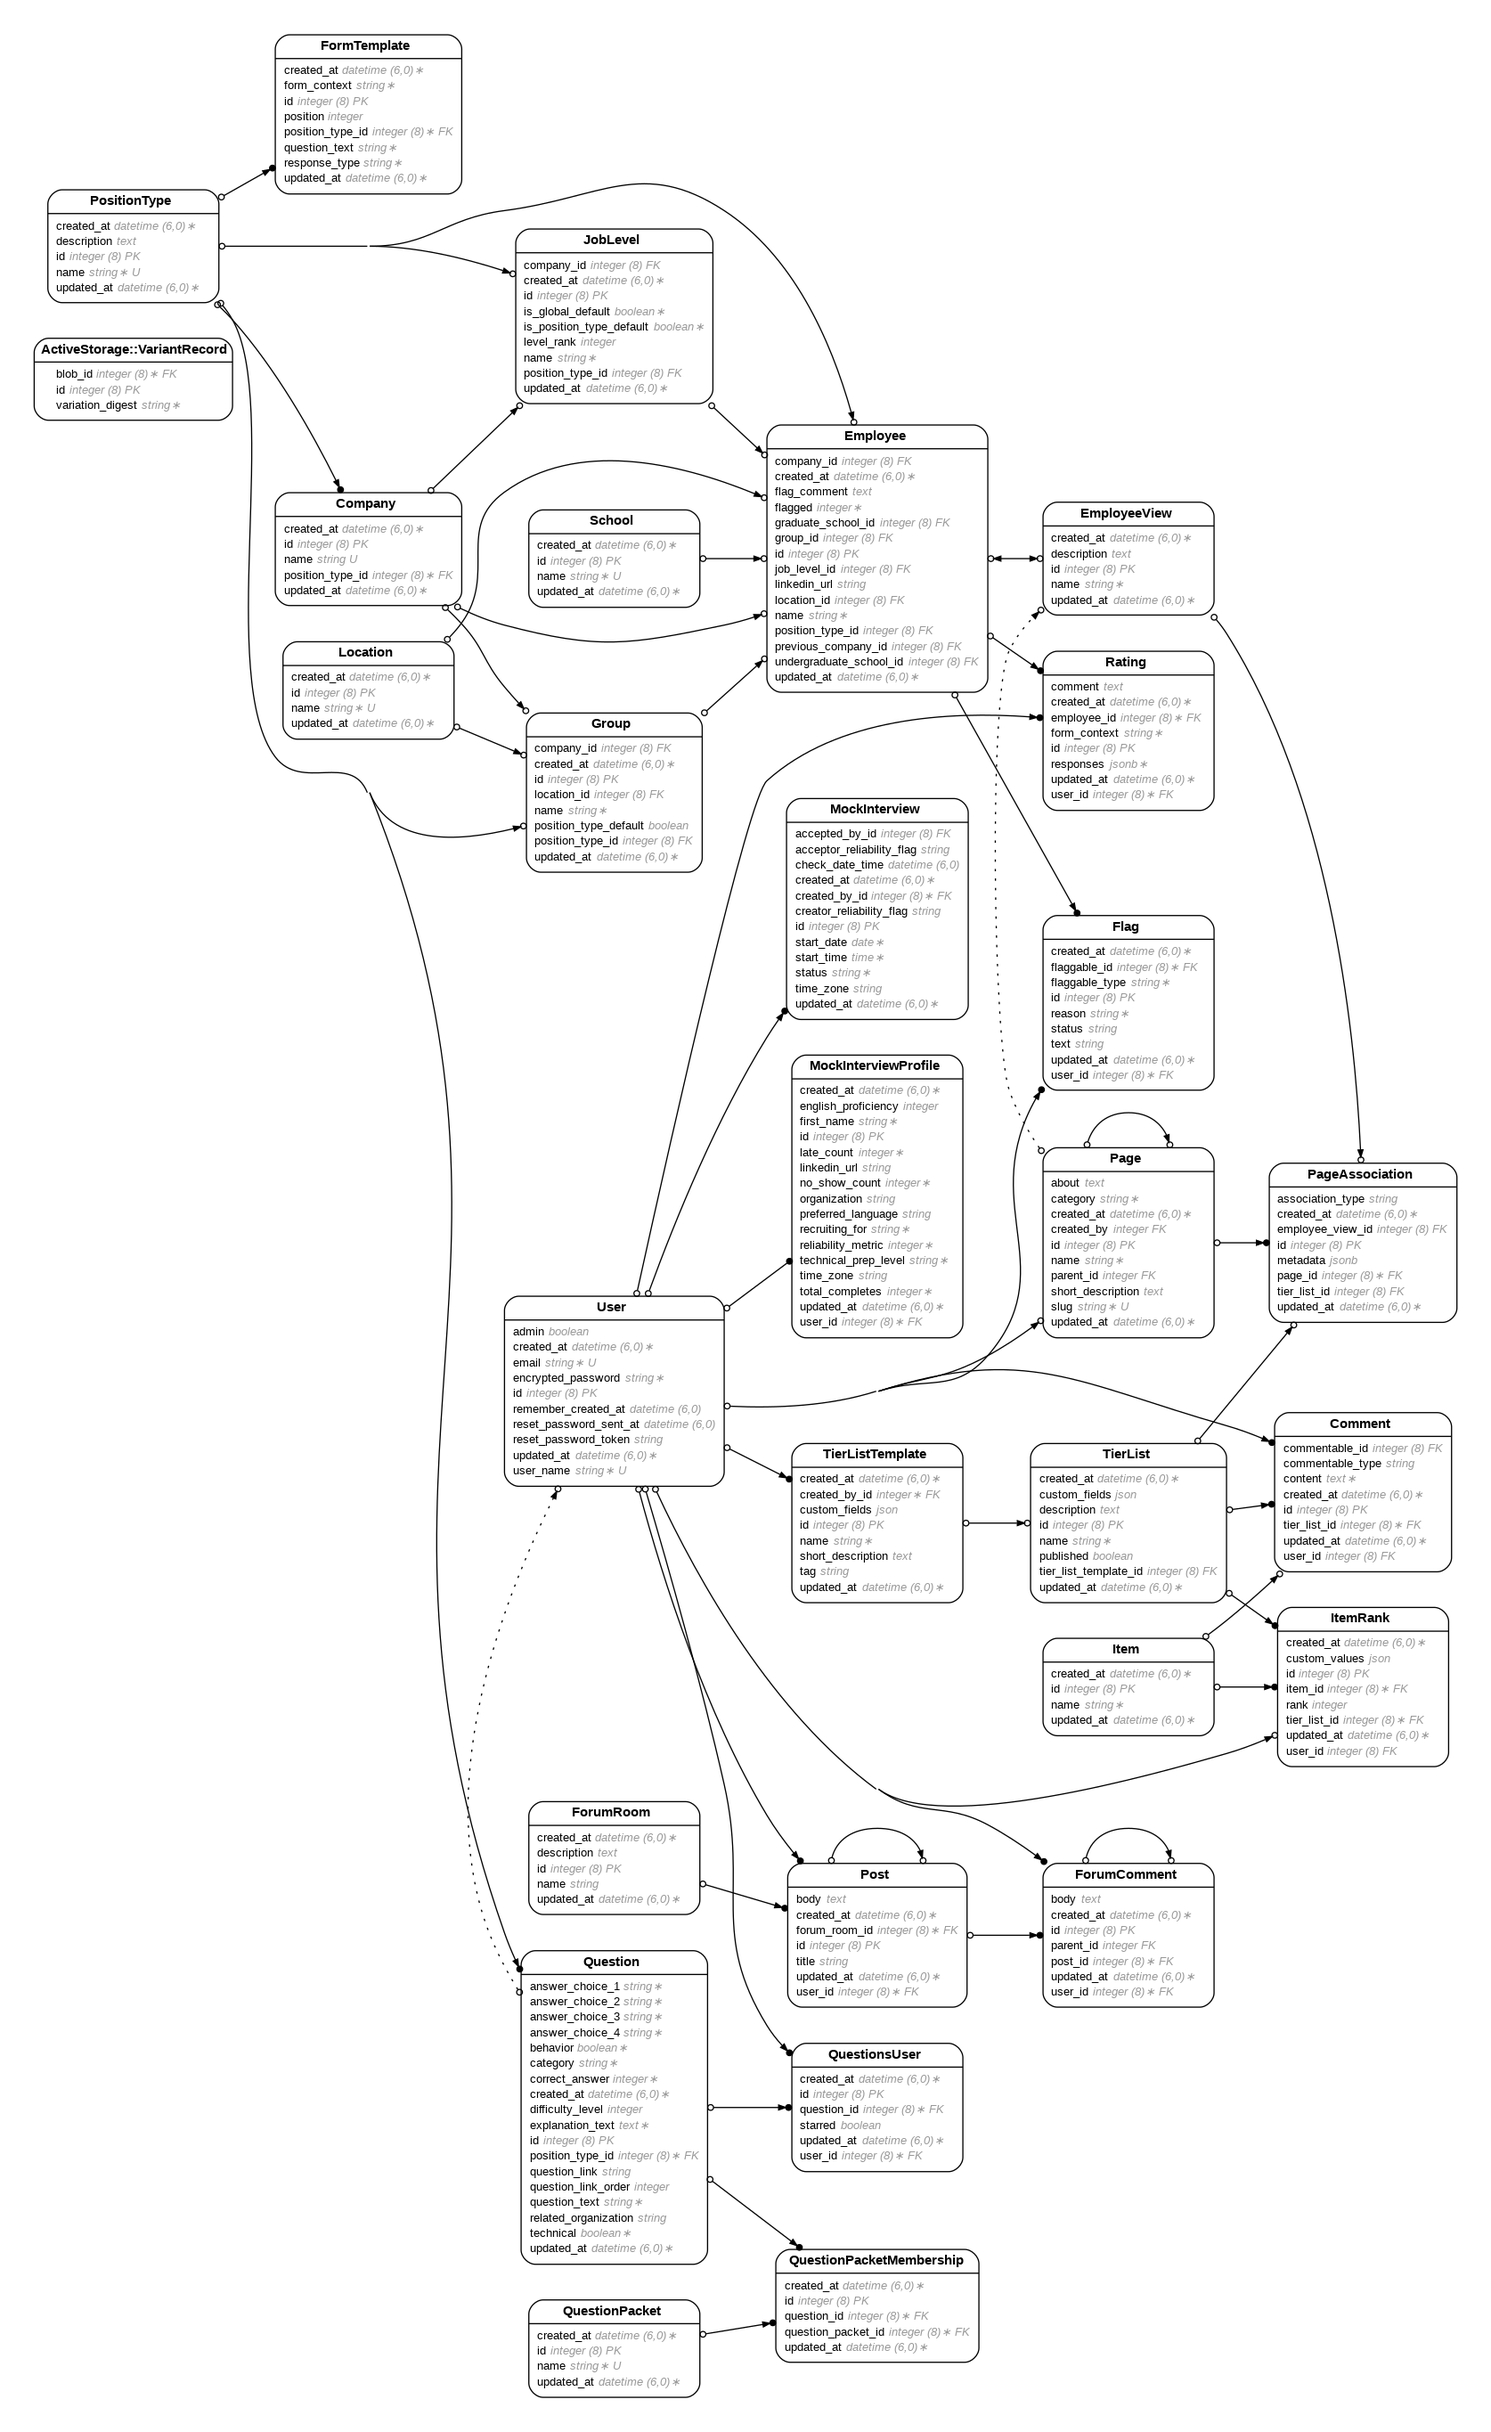
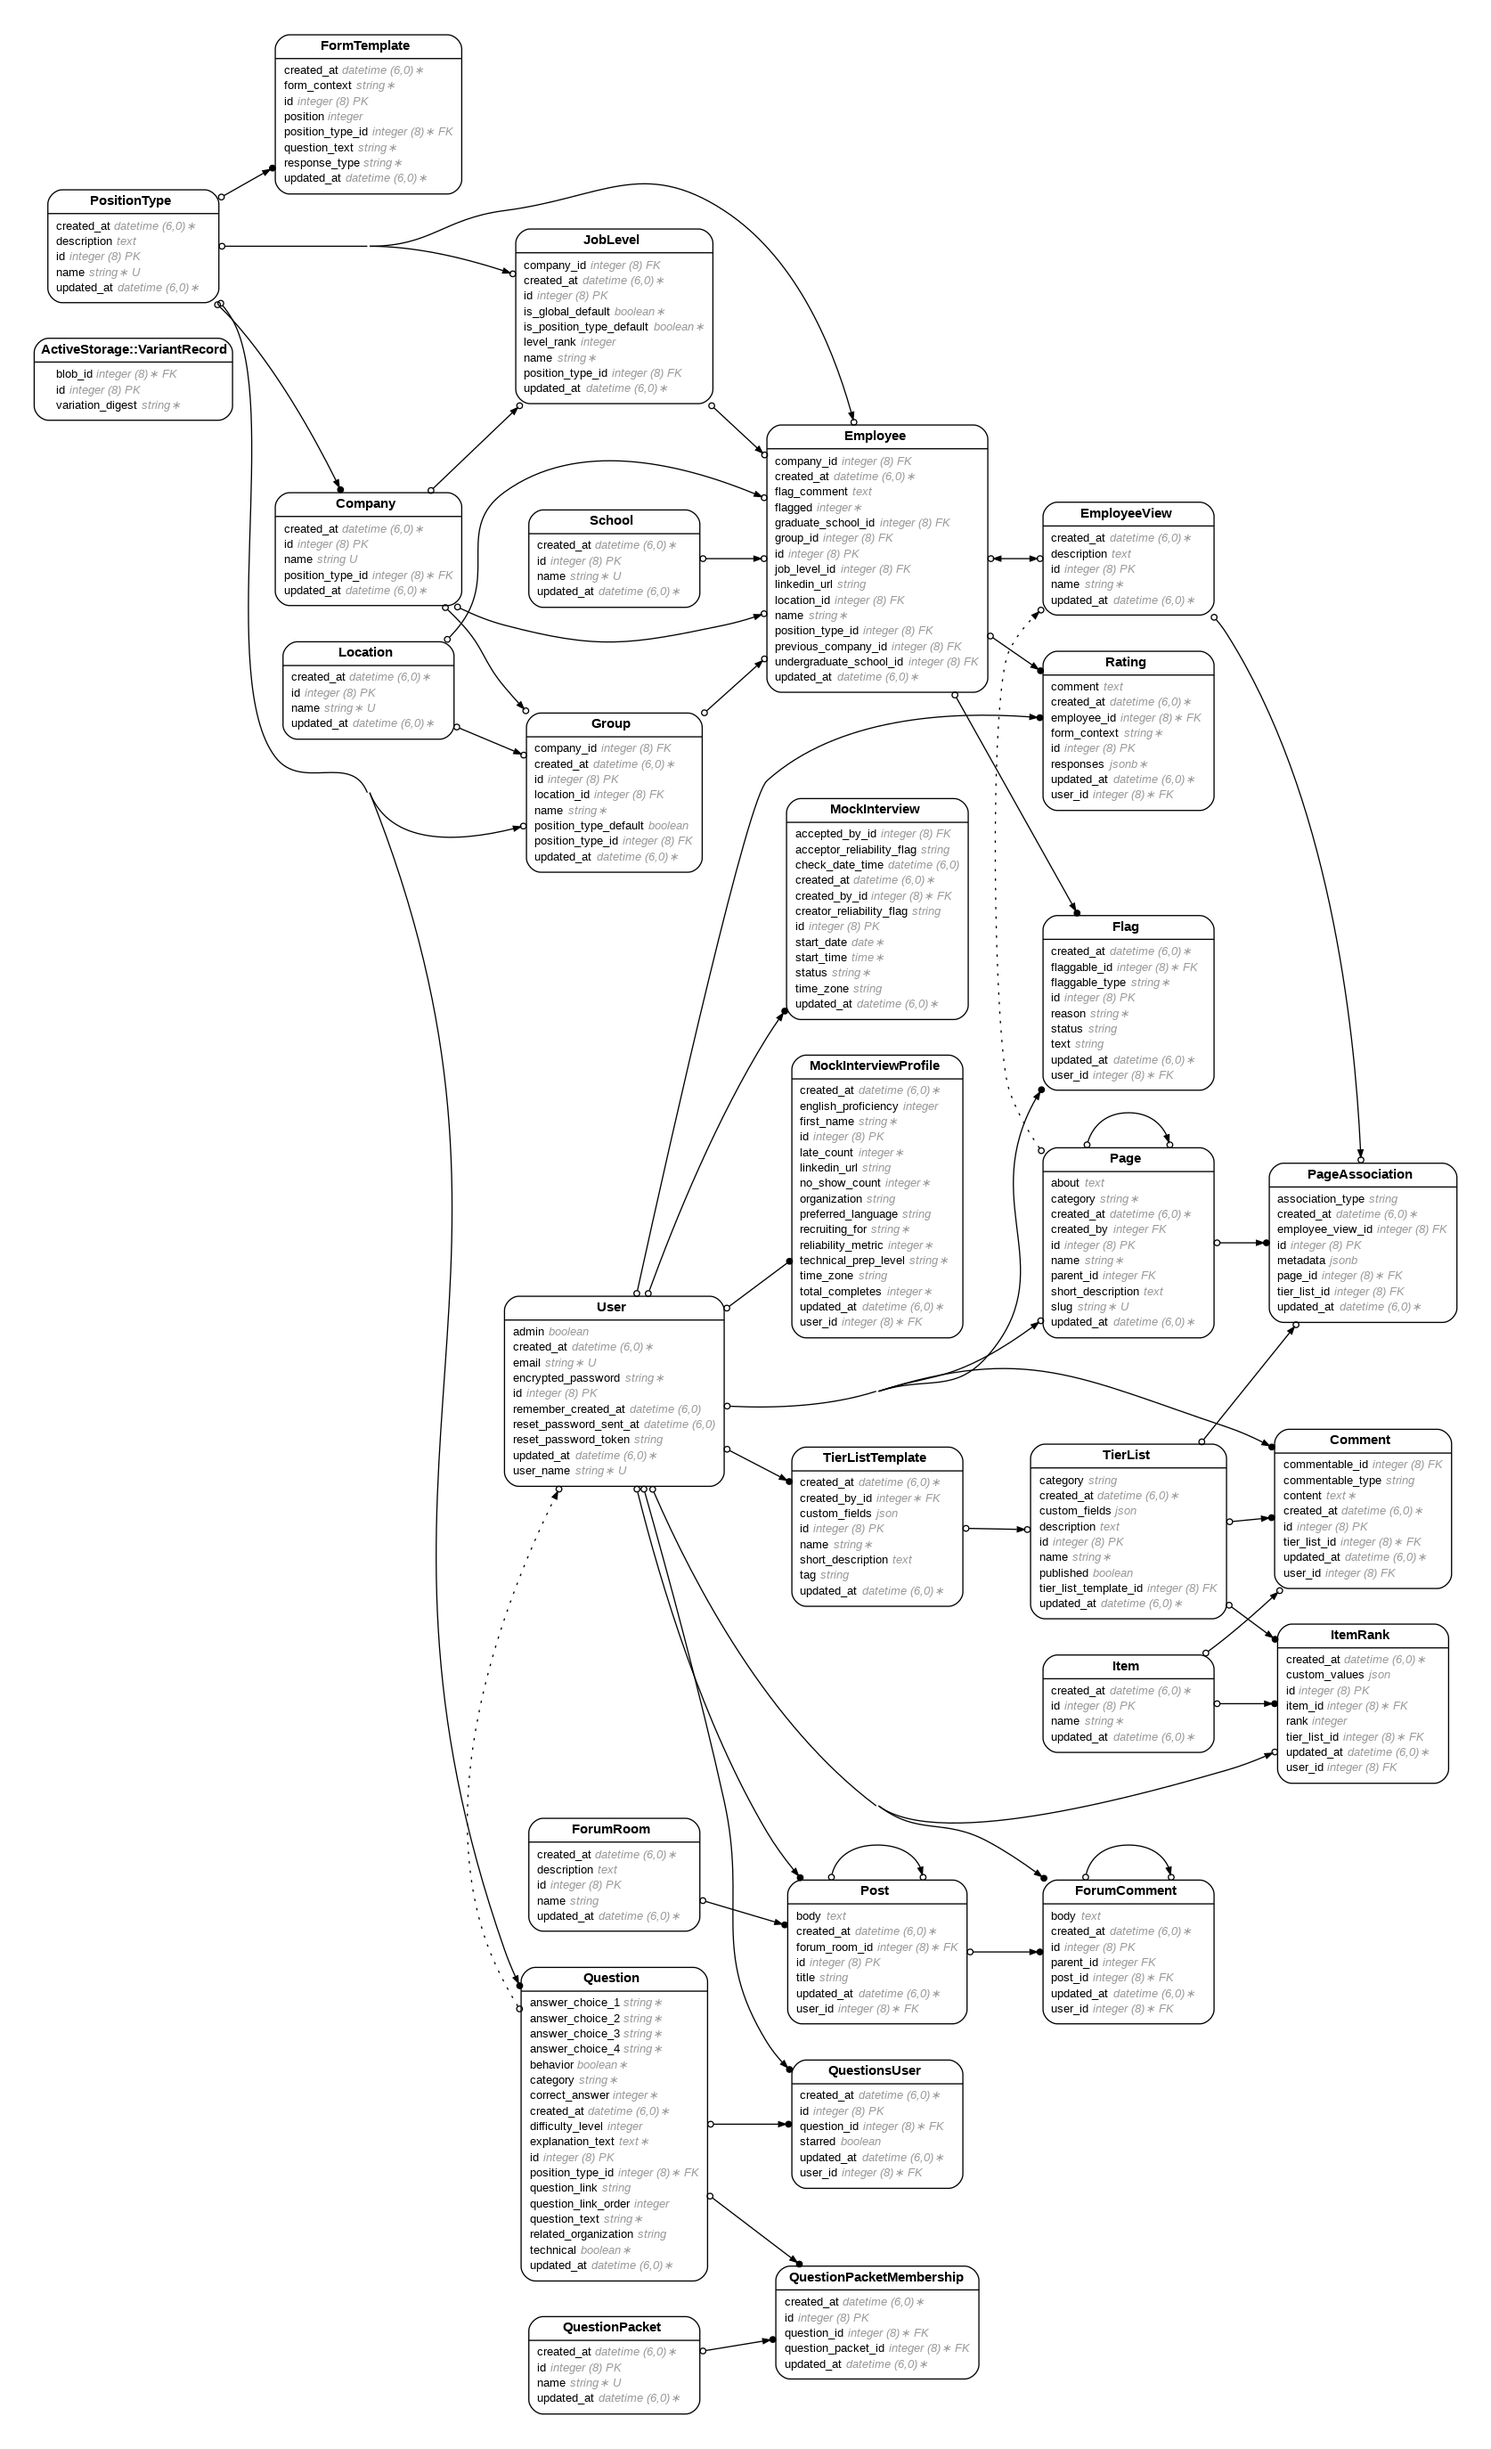
Made a lot of updates to formatting

diff --git a/db/schema.rb b/db/schema.rb
@@ -10,7 +10,7 @@
 #
 # It's strongly recommended that you check this file into your version control system.
 
-ActiveRecord::Schema[7.1].define(version: 2025_01_20_183055) do
+ActiveRecord::Schema[7.1].define(version: 2025_01_21_012347) do
   # These are extensions that must be enabled in order to support this database
   enable_extension "plpgsql"
 
@@ -363,13 +363,14 @@ ActiveRecord::Schema[7.1].define(version: 2025_01_20_183055) do
   end
 
   create_table "tier_lists", force: :cascade do |t|
-    t.string "name"
+    t.string "name", null: false
     t.text "description"
     t.boolean "published"
     t.json "custom_fields"
     t.datetime "created_at", null: false
     t.datetime "updated_at", null: false
     t.bigint "tier_list_template_id"
+    t.string "category"
     t.index ["tier_list_template_id"], name: "index_tier_lists_on_tier_list_template_id"
   end
 

diff --git a/app/models/tier_list.rb b/app/models/tier_list.rb
@@ -3,9 +3,10 @@
 # Table name: tier_lists
 #
 #  id                    :bigint           not null, primary key
+#  category              :string
 #  custom_fields         :json
 #  description           :text
-#  name                  :string
+#  name                  :string           not null
 #  published             :boolean
 #  created_at            :datetime         not null
 #  updated_at            :datetime         not null

diff --git a/app/controllers/admin/tier_lists_controller.rb b/app/controllers/admin/tier_lists_controller.rb
@@ -117,7 +117,8 @@ class Admin::TierListsController < ApplicationController
   def tier_list_params
     params.require(:tier_list).permit(
       :name, 
-      :description, 
+      :description,
+      :category, 
       :published,
       :tier_list_template_id,
       :picture, 

diff --git a/app/models/page.rb b/app/models/page.rb
@@ -42,7 +42,7 @@ class Page < ApplicationRecord
 
   before_validation :generate_slug, on: :create
 
-  CATEGORY_OPTIONS = ['General', 'Banking'].freeze
+  CATEGORY_OPTIONS = ['General', 'Banking', 'Consulting', 'Venture Capital','Hedge Funds'].freeze
 
   private
 

diff --git a/db/migrate/20250121011347_change_name_null_constraint_in_tier_lists.rb b/db/migrate/20250121011347_change_name_null_constraint_in_tier_lists.rb
@@ -1,0 +1,5 @@
+class ChangeNameNullConstraintInTierLists < ActiveRecord::Migration[7.1]
+  def change
+    change_column_null :tier_lists, :name, false
+  end
+end

diff --git a/db/migrate/20250121012347_add_category_to_tier_lists.rb b/db/migrate/20250121012347_add_category_to_tier_lists.rb
@@ -1,0 +1,5 @@
+class AddCategoryToTierLists < ActiveRecord::Migration[7.1]
+  def change
+    add_column :tier_lists, :category, :string
+  end
+end
